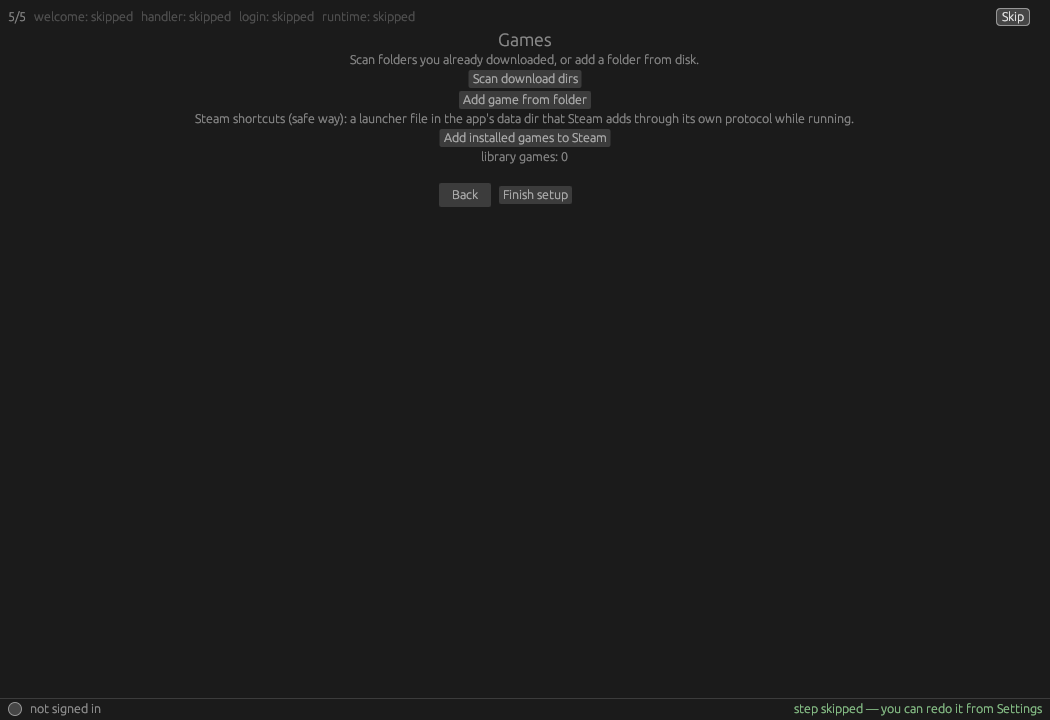
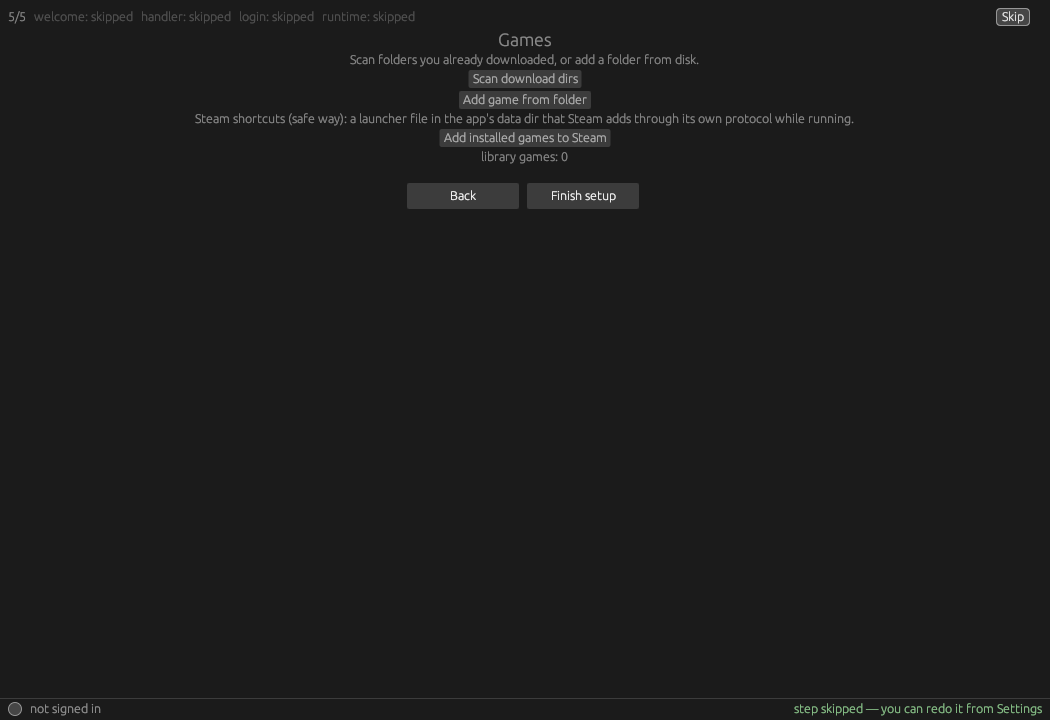
welcome language/theme row centered via spacer; Back and Next same width and bold labels; bump 0.34.0

Changed region(s): [[0.3657, 0.2444, 0.6095, 0.3056]]

diff --git a/launcher/src/onboarding.rs b/launcher/src/onboarding.rs
@@ -163,9 +163,9 @@ pub fn render(app: &mut App, ui: &mut egui::Ui) {
     } else {
         tr(&app.config, "onboard_next")
     };
-    let back_w = back_label.chars().count() as f32 * 7.0 + 24.0;
-    let next_w = next_label.chars().count() as f32 * 7.0 + 24.0;
-    let pad = ((ui.available_width() - back_w - 12.0 - next_w) * 0.5).max(0.0);
+    // Same width for Back and Next so they look identical; bold labels.
+    let btn_w = back_label.chars().count().max(next_label.chars().count()) as f32 * 7.0 + 28.0;
+    let pad = ((ui.available_width() - (btn_w * 2.0 + 12.0)) * 0.5).max(0.0);
     ui.vertical_centered(|ui| match step {
         Step::Welcome => {
             load_logo(app, ui);
@@ -178,7 +178,17 @@ pub fn render(app: &mut App, ui: &mut egui::Ui) {
             ui.label(tr(&app.config, "onboard_welcome_hint"));
             let mut pick_lang: Option<String> = None;
             let mut pick_theme: Option<String> = None;
+            // The language/theme row lives centered too: a horizontal layout
+            // would otherwise stretch across the whole panel and sit left.
+            // Row width is estimated from the current language label lengths.
+            let est = if app.config.lang == "pl" {
+                250.0
+            } else {
+                220.0
+            };
+            let row_pad = ((ui.available_width() - est) * 0.5).max(0.0);
             ui.horizontal(|ui| {
+                ui.add_space(row_pad);
                 ui.label(tr(&app.config, "language"));
                 let cur_lang = tr(&app.config, &format!("lang_{}", app.config.lang));
                 ui.menu_button(cur_lang, |ui| {
@@ -364,14 +374,18 @@ pub fn render(app: &mut App, ui: &mut egui::Ui) {
     ui.horizontal(|ui| {
         ui.add_space(pad);
         let resp = ui.add(
-            egui::Button::new(egui::RichText::new(back_label.clone()))
-                .min_size(egui::vec2(back_w, 24.0)),
+            egui::Button::new(egui::RichText::new(back_label.clone()).strong())
+                .min_size(egui::vec2(btn_w, 26.0)),
         );
         back = !first && resp.clicked();
+        let resp = ui.add(
+            egui::Button::new(egui::RichText::new(next_label.clone()).strong())
+                .min_size(egui::vec2(btn_w, 26.0)),
+        );
         if step == Step::Games {
-            finish = ui.button(next_label.clone()).clicked();
+            finish = resp.clicked();
         } else {
-            next = ui.button(next_label.clone()).clicked();
+            next = resp.clicked();
         }
     });
 
